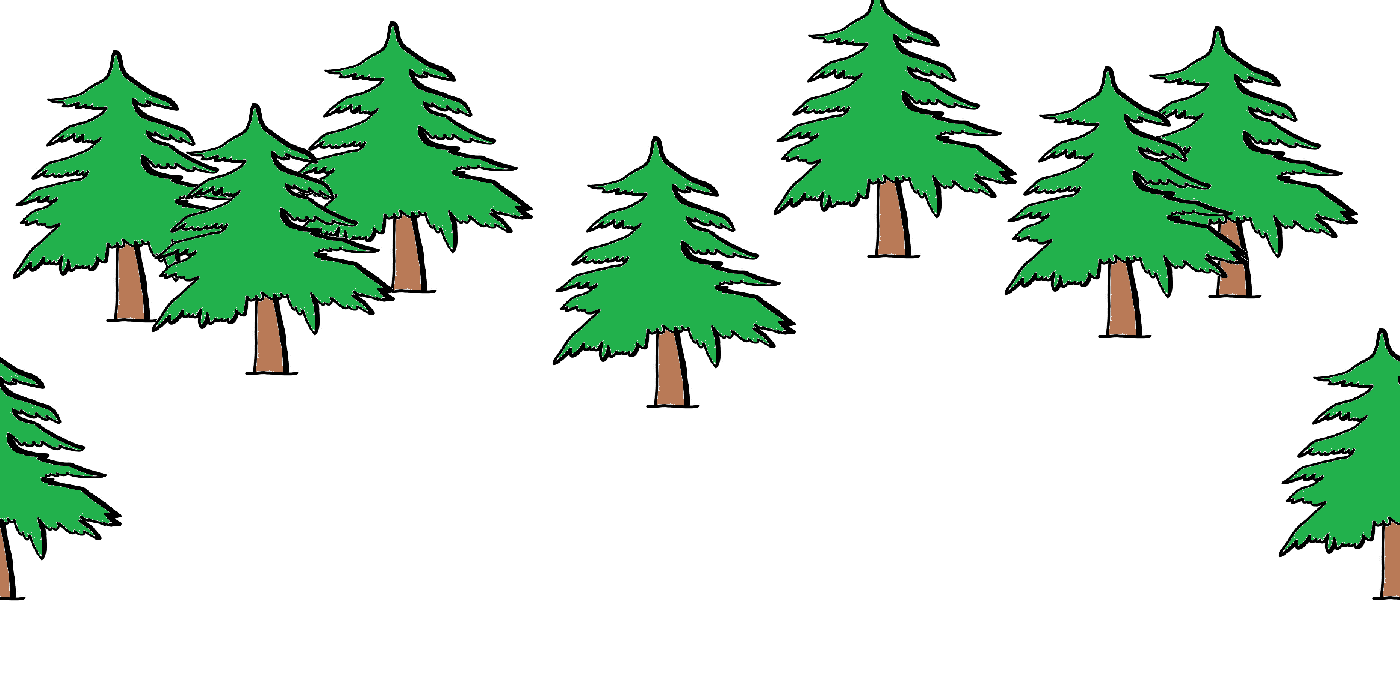
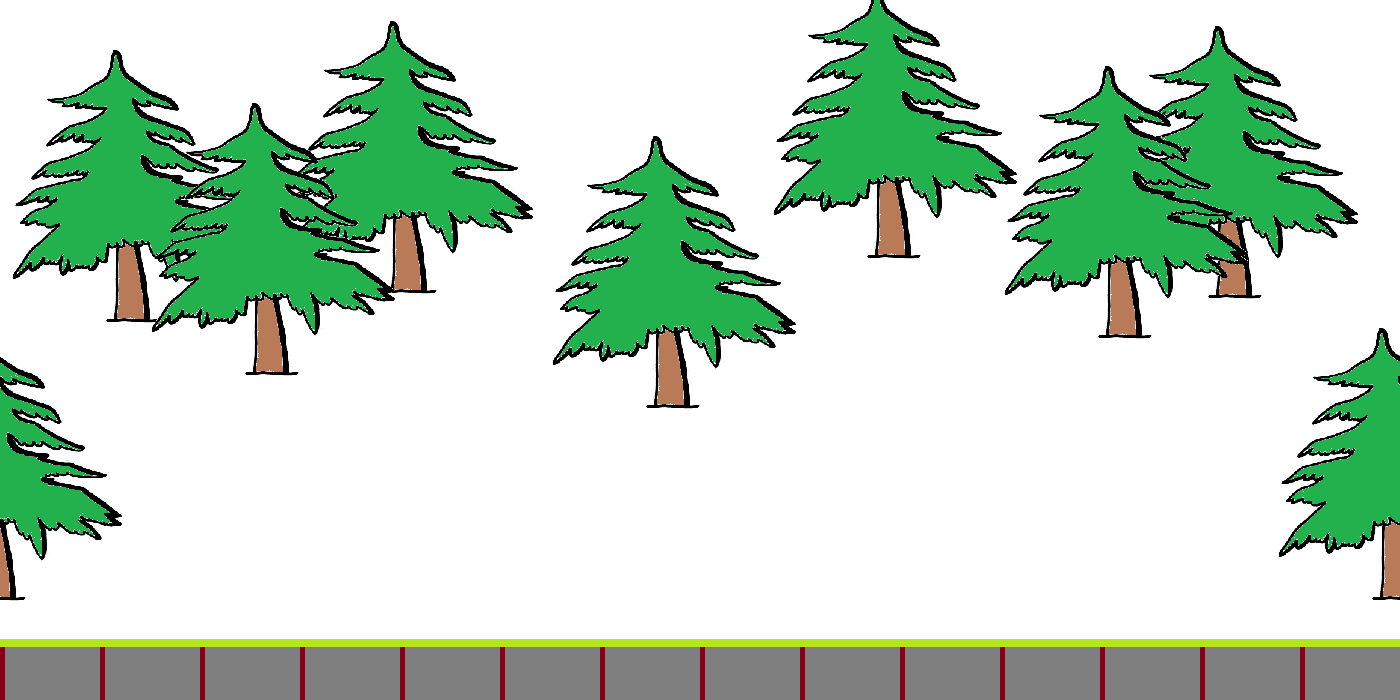
Pohybliva kamera
Tohleto pohybovani kamerou se mi teda vubec nelibi, je to jen na
vyzkouseni...dodelam

Changed region(s): [[0.0, 0.9, 1.0, 1.0]]

diff --git a/The Game/The Game/The Game/Game1.cs b/The Game/The Game/The Game/Game1.cs
@@ -17,8 +17,7 @@ namespace The_Game
         SpriteBatch spriteBatch;
         Scrolling scrolling1;
         Scrolling scrolling2;
-        Postavicka me;
-        Postavicka alterego;
+        Postavicka me;        
         Texture2D[] textury;
         private SpriteFont font;
 
@@ -27,8 +26,7 @@ namespace The_Game
         int width;
         int height;
 
-
-
+        Camera camera;
 
 
         public Game1()
@@ -45,6 +43,7 @@ namespace The_Game
 
         protected override void Initialize()
         {
+            camera = new Camera(GraphicsDevice.Viewport);
 
             base.Initialize();
 
@@ -85,16 +84,18 @@ namespace The_Game
             if (scrolling2.rectangle.X + scrolling2.rectangle.Width <= 0)
                 scrolling2.rectangle.X = scrolling1.rectangle.X + scrolling1.rectangle.Width;
 
-            scrolling1.Update();
-            scrolling2.Update();
-            
+            //scrolling1.Update();
+            //scrolling2.Update();
+
+            camera.Update(gameTime, me);
+
             base.Update(gameTime);
         }
 
         protected override void Draw(GameTime gameTime)
         {
             GraphicsDevice.Clear(Color.CornflowerBlue);
-            spriteBatch.Begin();
+            spriteBatch.Begin(SpriteSortMode.Deferred, BlendState.AlphaBlend,null,null,null,null,camera.transform);
 
             
             //

diff --git a/The Game/The Game/The Game/Camera.cs b/The Game/The Game/The Game/Camera.cs
@@ -1,0 +1,28 @@
+using System;
+using System.Collections.Generic;
+using System.Linq;
+using System.Text;
+using Microsoft.Xna.Framework;
+using Microsoft.Xna.Framework.Graphics;
+
+namespace The_Game
+{
+    class Camera
+    {
+        public Matrix transform;
+        Viewport view;
+        Vector2 centre;
+
+        public Camera(Viewport newView)
+        {
+            view = newView;
+        }
+
+        public void Update(GameTime gametime, Postavicka me)
+        {
+            centre = new Vector2(me.pozice.X + me.width/2 -700, 0);
+            transform = Matrix.CreateScale(new Vector3(1,1,0)) * 
+                Matrix.CreateTranslation(new Vector3(-centre.X, -centre.Y,0));
+        }
+    }
+}

diff --git a/The Game/The Game/The Game/Postavicka.cs b/The Game/The Game/The Game/Postavicka.cs
@@ -21,9 +21,9 @@ namespace The_Game
         // Promenne
         private AnimatedSprite[] vzhled; //"gif"    //0 doleva 1 doprava 2 vevzduchu ...
         private int vzhledNo;
-        Vector2 pozice; //souradnice    
+        public Vector2 pozice; //souradnice    
         Vector2 pohyb; //smer pohybu
-        int width;//sirka v pixelech
+        public int width;//sirka v pixelech
         bool onLand;
         double mass;
         Speed rychlost;
